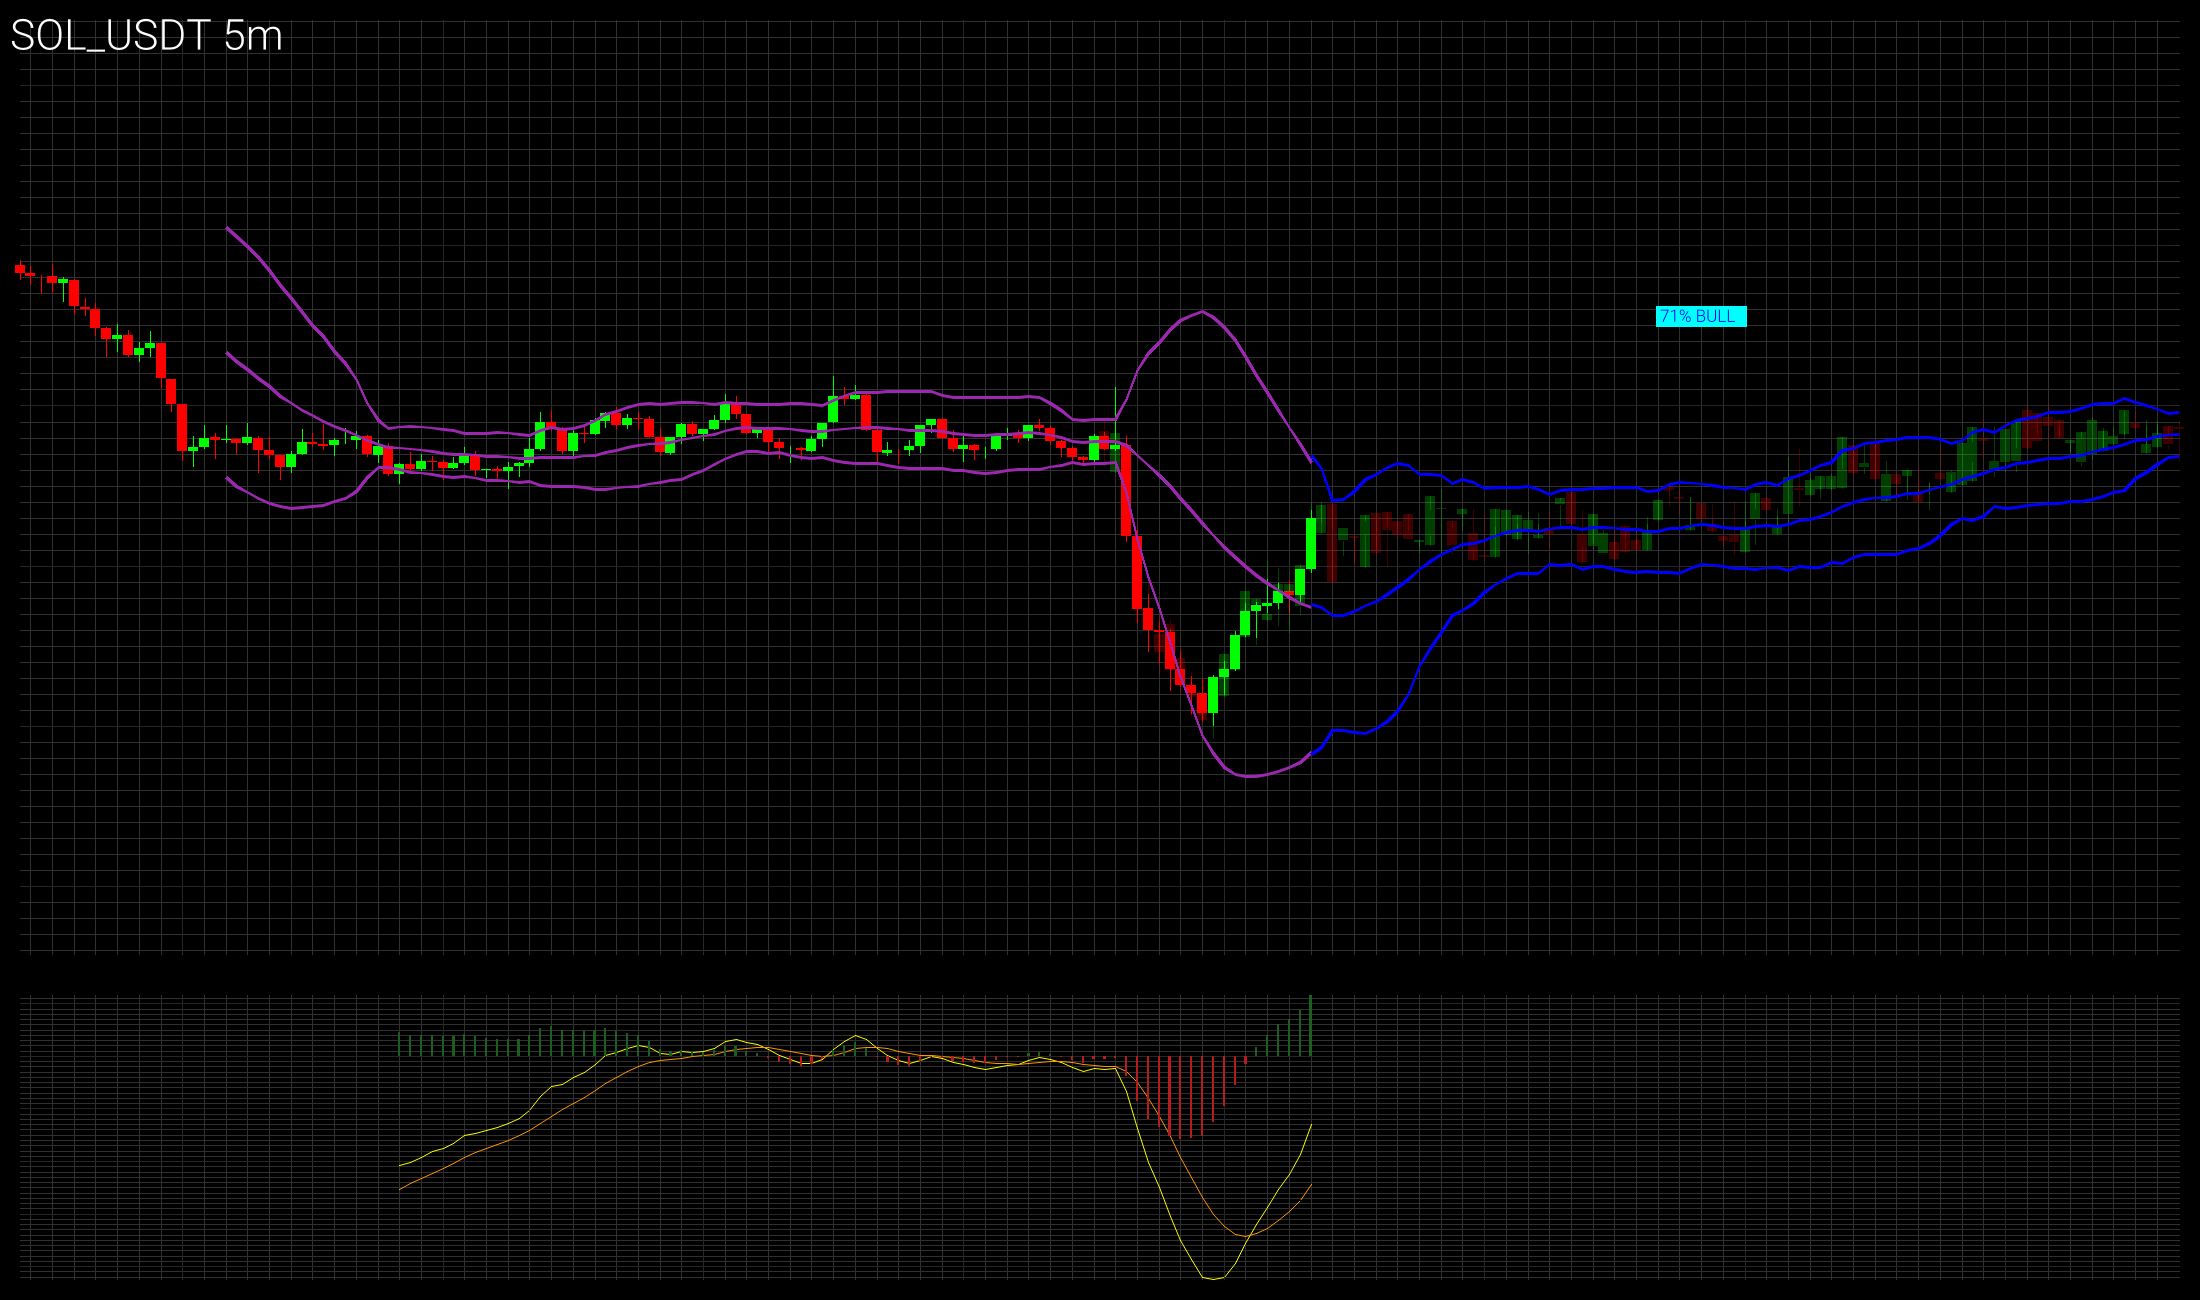
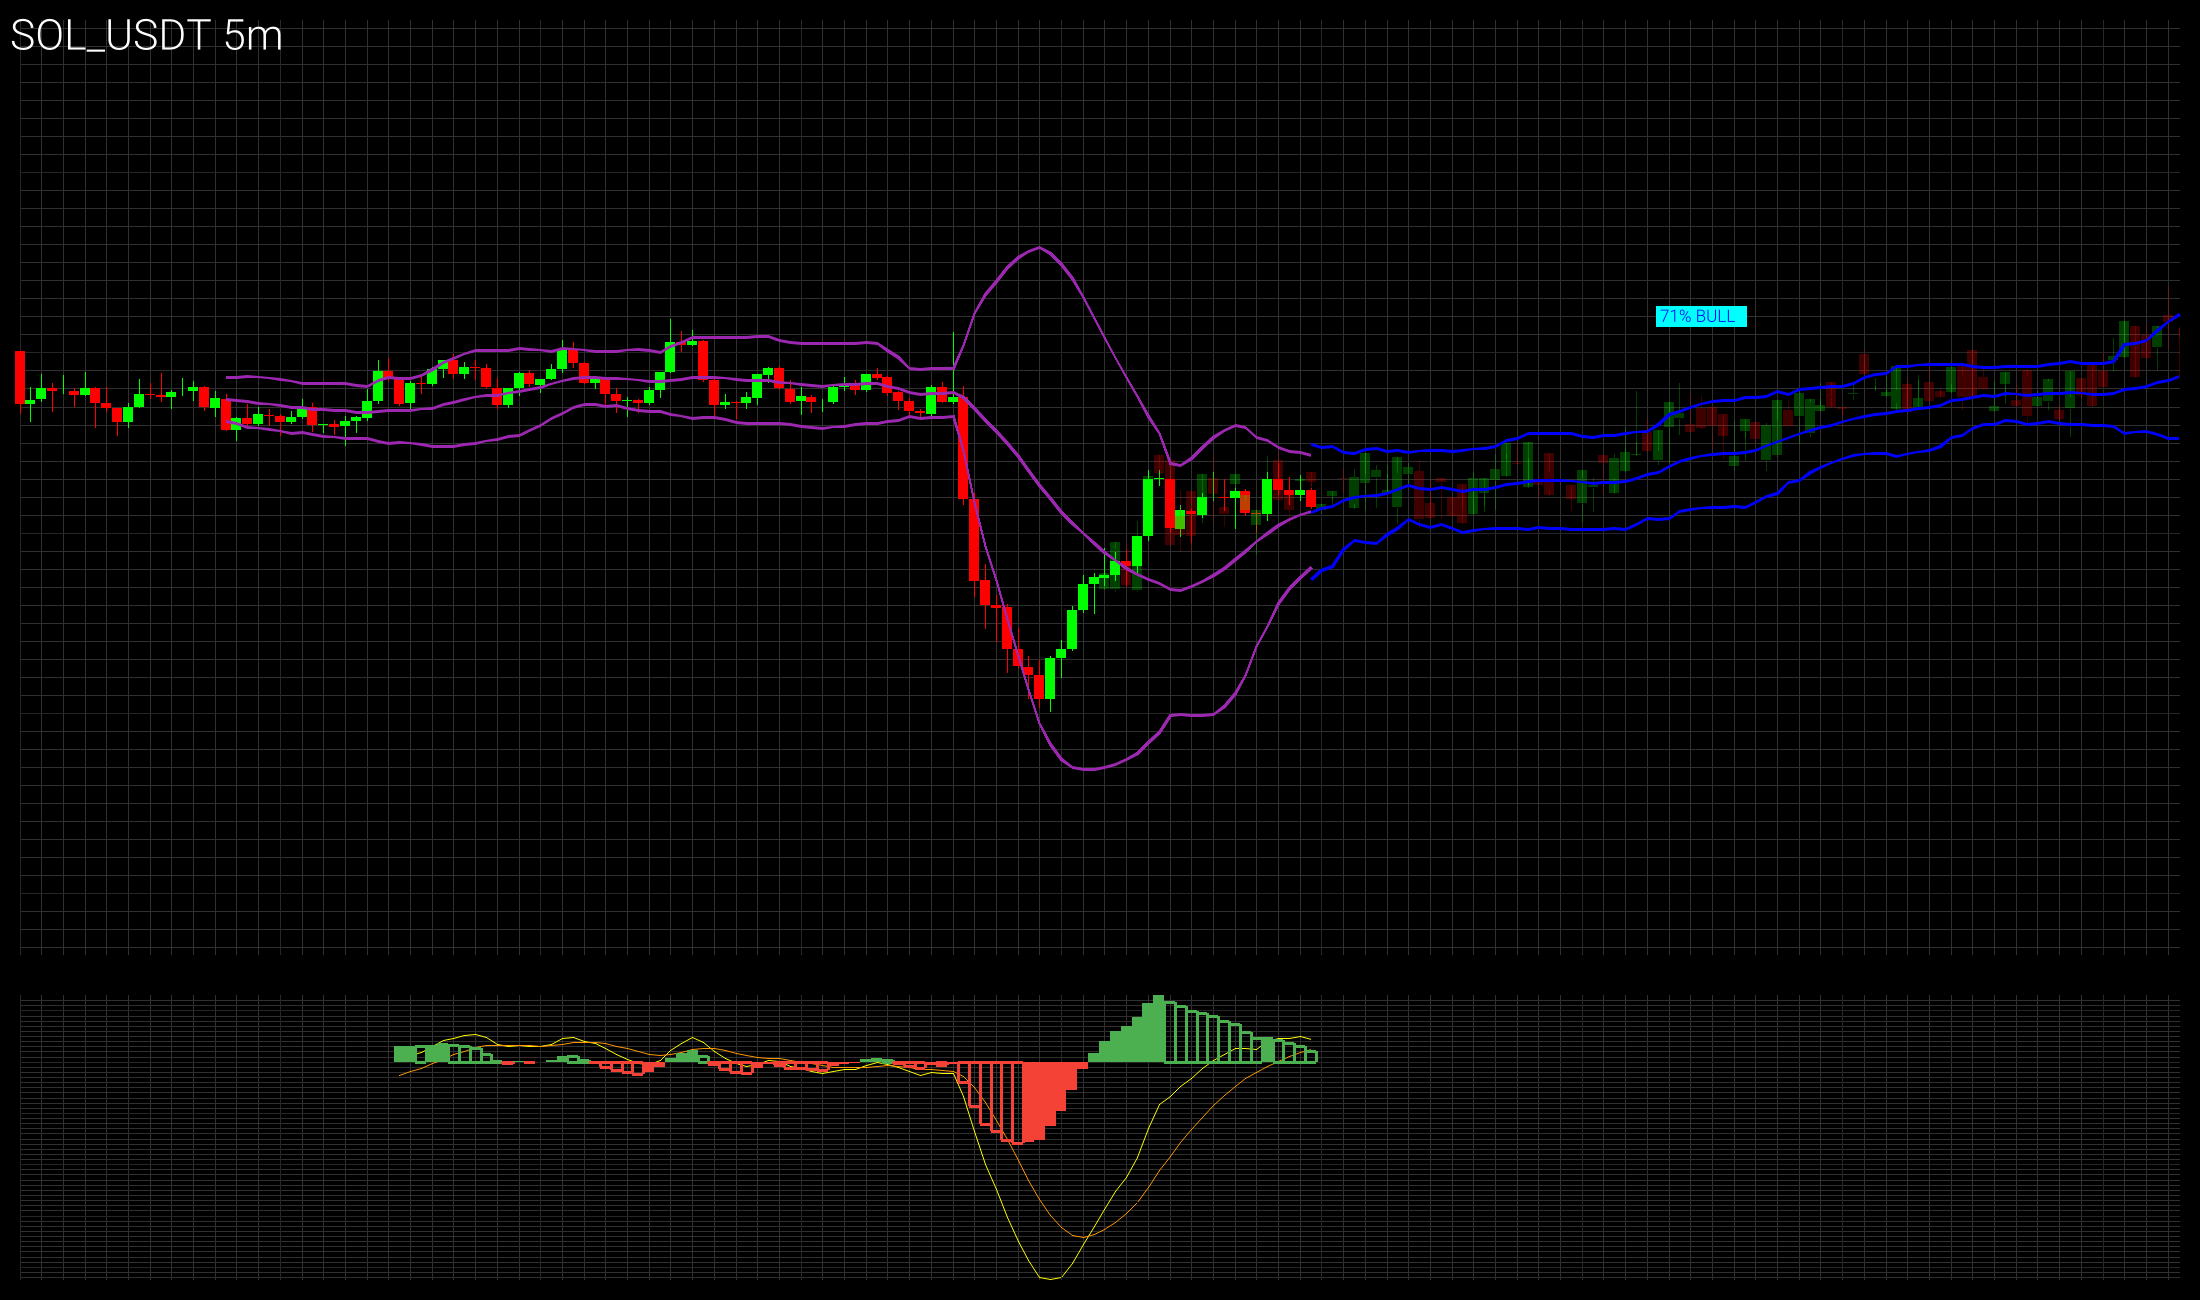
feat: macd hollow histogram

Changed region(s): [[0.0, 0.0, 0.9891, 0.7385], [0.0, 0.7692, 0.9891, 0.9846]]

diff --git a/feeder/src/charts/candle.rs b/feeder/src/charts/candle.rs
@@ -13,7 +13,7 @@ use plotters::prelude::full_palette::PURPLE;
 use plotters::prelude::*;
 
 use plotters::coord::Shift;
-use plotters::style::full_palette::{GREEN_900, ORANGE, RED_900};
+use plotters::style::full_palette::{GREEN_500, ORANGE, RED_500};
 
 use std::error::Error;
 
@@ -663,15 +663,33 @@ fn draw_macd(
             &ORANGE,
         ))?;
 
-        // Draw histogram bars using plotting_area
+        // Draw histogram bars with conditional styling
         let plotting_area = chart.plotting_area();
-        for (t, _, _, h) in &macd_lines {
-            let color = if *h > 0.0 { GREEN_900 } else { RED_900 };
-            let delta = chrono::Duration::seconds(30);
+        let mut previous_h: Option<f32> = None; // Track the previous histogram value
+        let delta = chrono::Duration::seconds(150); // 5-minute timeframe / 2 = 150 seconds
+
+        for (t, _, _, h) in macd_lines.iter() {
+            let color = if *h > 0.0 { GREEN_500 } else { RED_500 };
+            let style = if let Some(prev) = previous_h {
+                // If current value is less than previous, use hollow style
+                if *h < prev {
+                    ShapeStyle::from(&color).stroke_width(2) // Hollow (border only)
+                } else {
+                    ShapeStyle::from(&color).filled() // Filled
+                }
+            } else {
+                // First bar is always filled (no previous value to compare)
+                ShapeStyle::from(&color).filled()
+            };
+
+            // Draw the histogram bar
             plotting_area.draw(&Rectangle::new(
                 [(*t - delta, 0.0), (*t + delta, *h)],
-                ShapeStyle::from(&color).filled(),
+                style,
             ))?;
+
+            // Update previous value
+            previous_h = Some(*h);
         }
     }
     Ok(())

diff --git a/feeder/src/lib.rs b/feeder/src/lib.rs
@@ -9,7 +9,7 @@ use worker::*;
 
 // TODO: call service binding
 async fn gen_candle(pair_symbol: String, timeframe: String) -> anyhow::Result<Vec<Kline>> {
-    let kline_data_1m = fetch_binance_kline_data::<Kline>(&pair_symbol, &timeframe, 60).await?;
+    let kline_data_1m = fetch_binance_kline_data::<Kline>(&pair_symbol, &timeframe, 300).await?;
     Ok(kline_data_1m)
 }
 
@@ -19,7 +19,7 @@ const DEFAULT_FONT_NAME: &str = "Roboto-Light.ttf";
 pub async fn handle_chart(_: Request, ctx: RouteContext<()>) -> worker::Result<Response> {
     if let Some(pair_symbol) = ctx.param("pair_symbol") {
         // Get timeframe
-        let binding = "1m".to_string();
+        let binding = "5m".to_string();
         let timeframe = ctx.param("timeframe").unwrap_or(&binding);
 
         // Get font
@@ -55,6 +55,8 @@ pub async fn handle_chart(_: Request, ctx: RouteContext<()>) -> worker::Result<R
             .with_past_candle(candle_data)
             .with_title(&chart_metadata.title)
             .with_font_data(font_data)
+            .with_macd()
+            .with_bollinger_band()
             .build();
 
         // Handle
